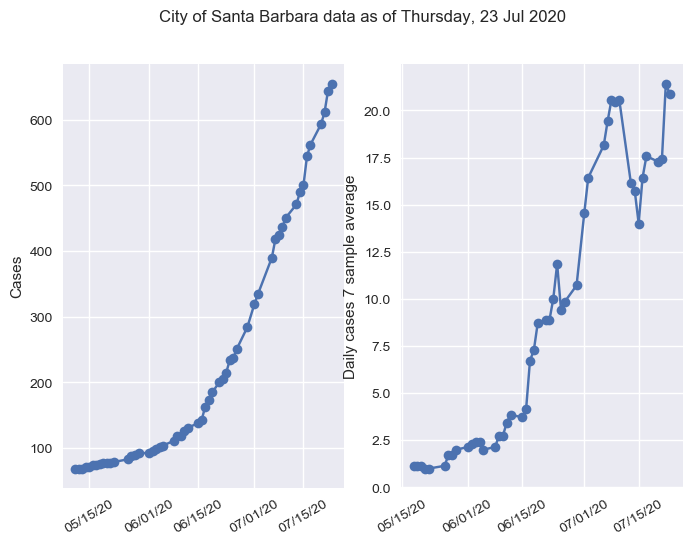
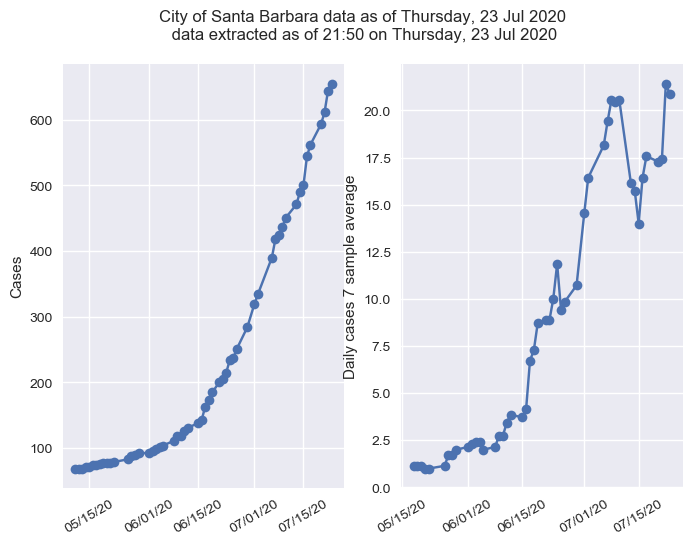
update by myscript.sh

Changed region(s): [[0.2428, 0.0312, 0.8194, 0.0936]]

diff --git a/scrape-plots-file.py b/scrape-plots-file.py
@@ -79,6 +79,7 @@ ax2.plot_date(truncateddates, avg,linestyle='solid')
 ax2.set_ylabel('Daily cases 7 sample average')
 ax2.xaxis.set_major_formatter(formatter)
 ax2.xaxis.set_tick_params(rotation=30, labelsize=10)
-fig.suptitle('City of Santa Barbara data as of '+datetimes[0].strftime("%A, %d %b %Y"))
+now=datetime.now().strftime('%H:%M on %A, %d %b %Y')
+fig.suptitle('City of Santa Barbara data as of '+datetimes[0].strftime("%A, %d %b %Y")+'\n data extracted as of '+now)
 fig.savefig('./graphs.png',bbox_inches='tight')
 
